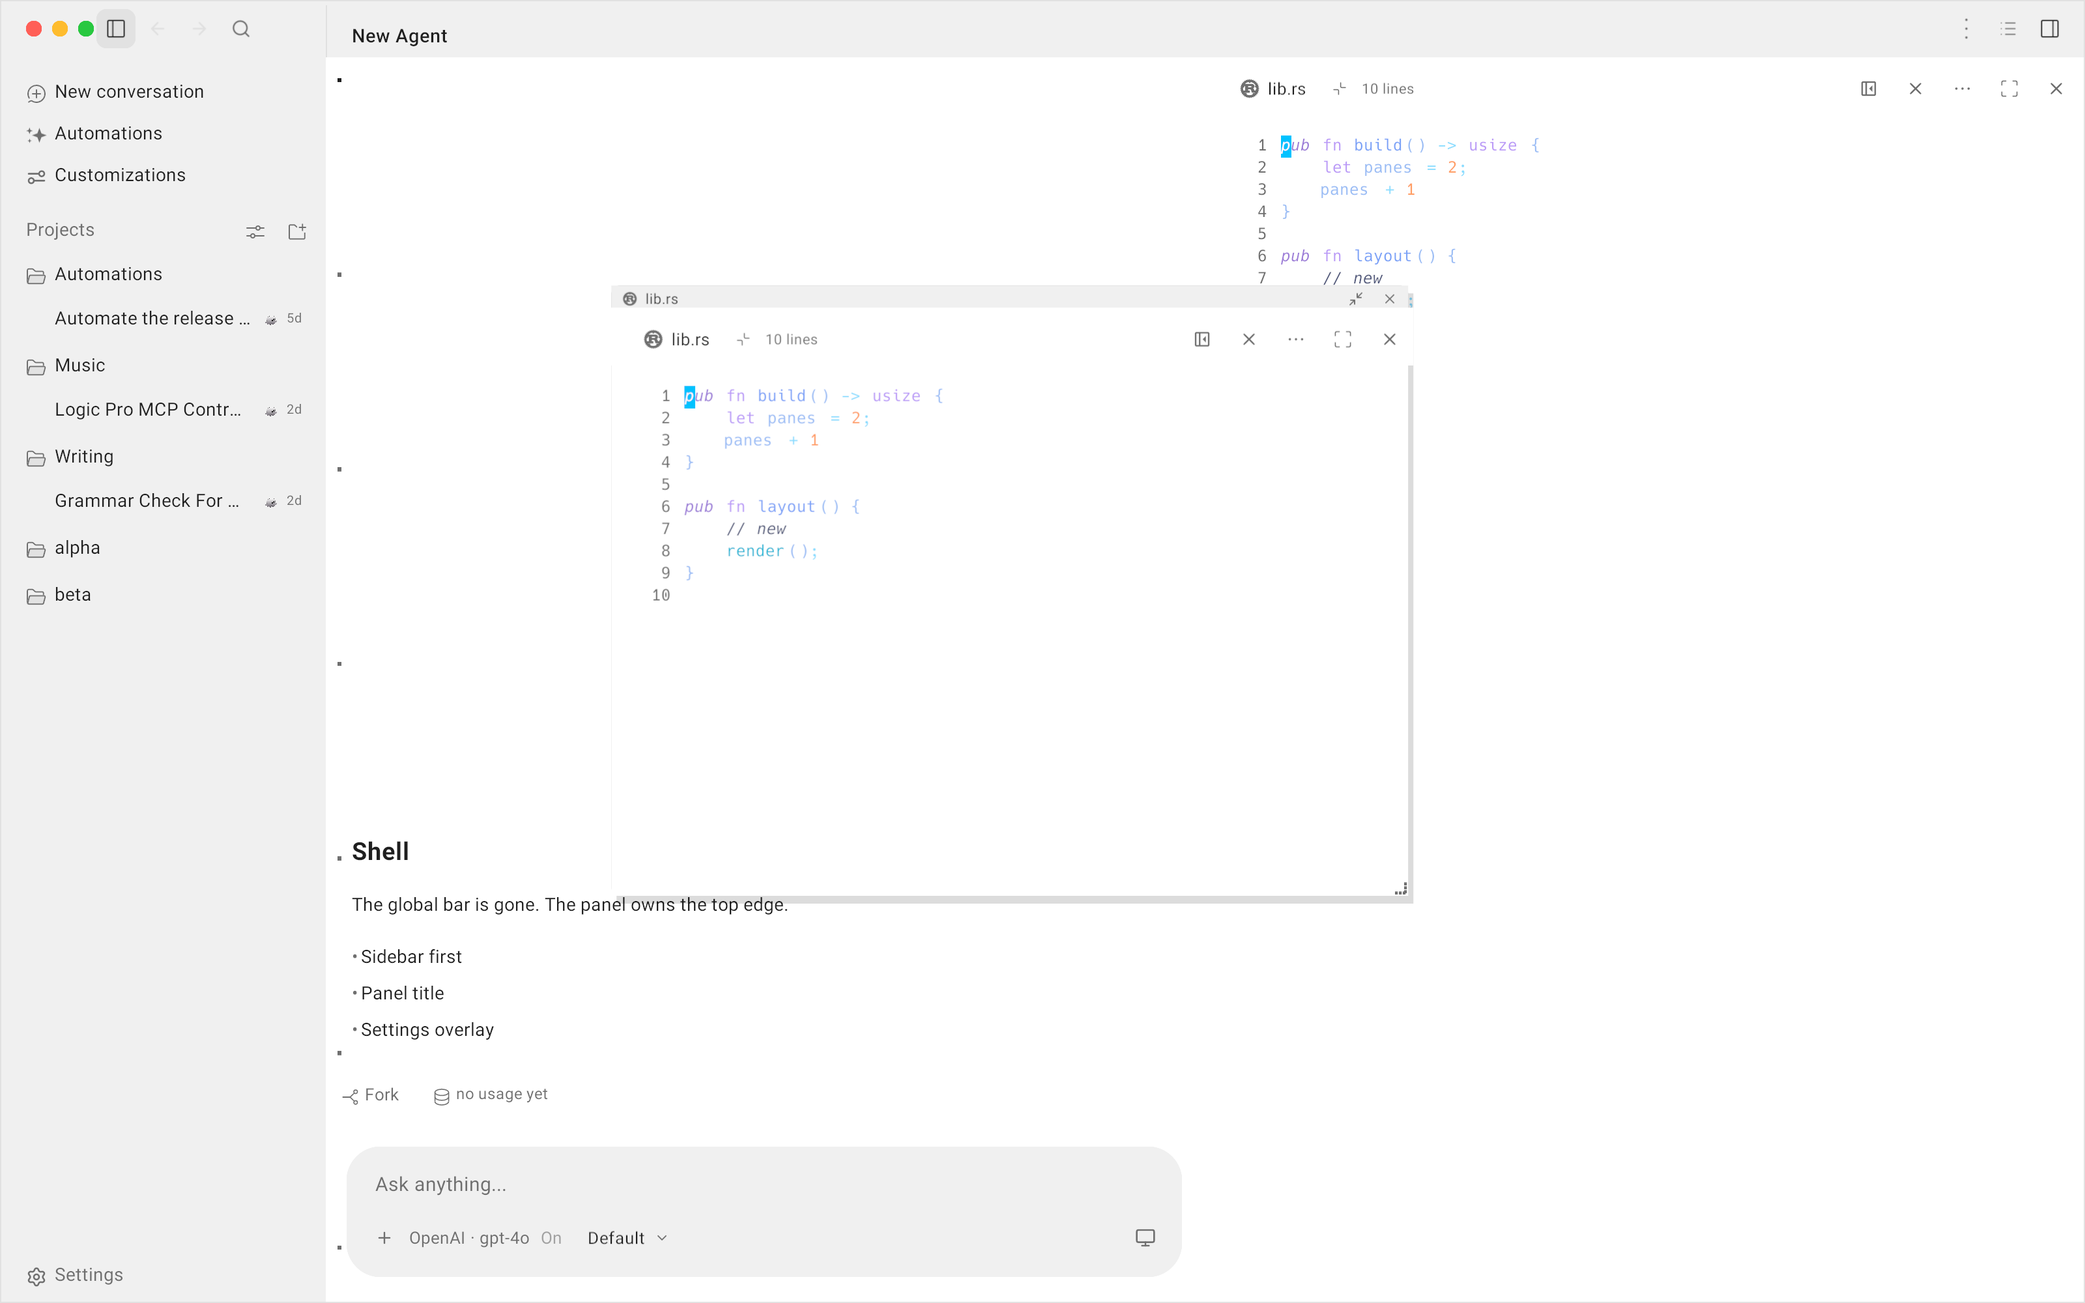
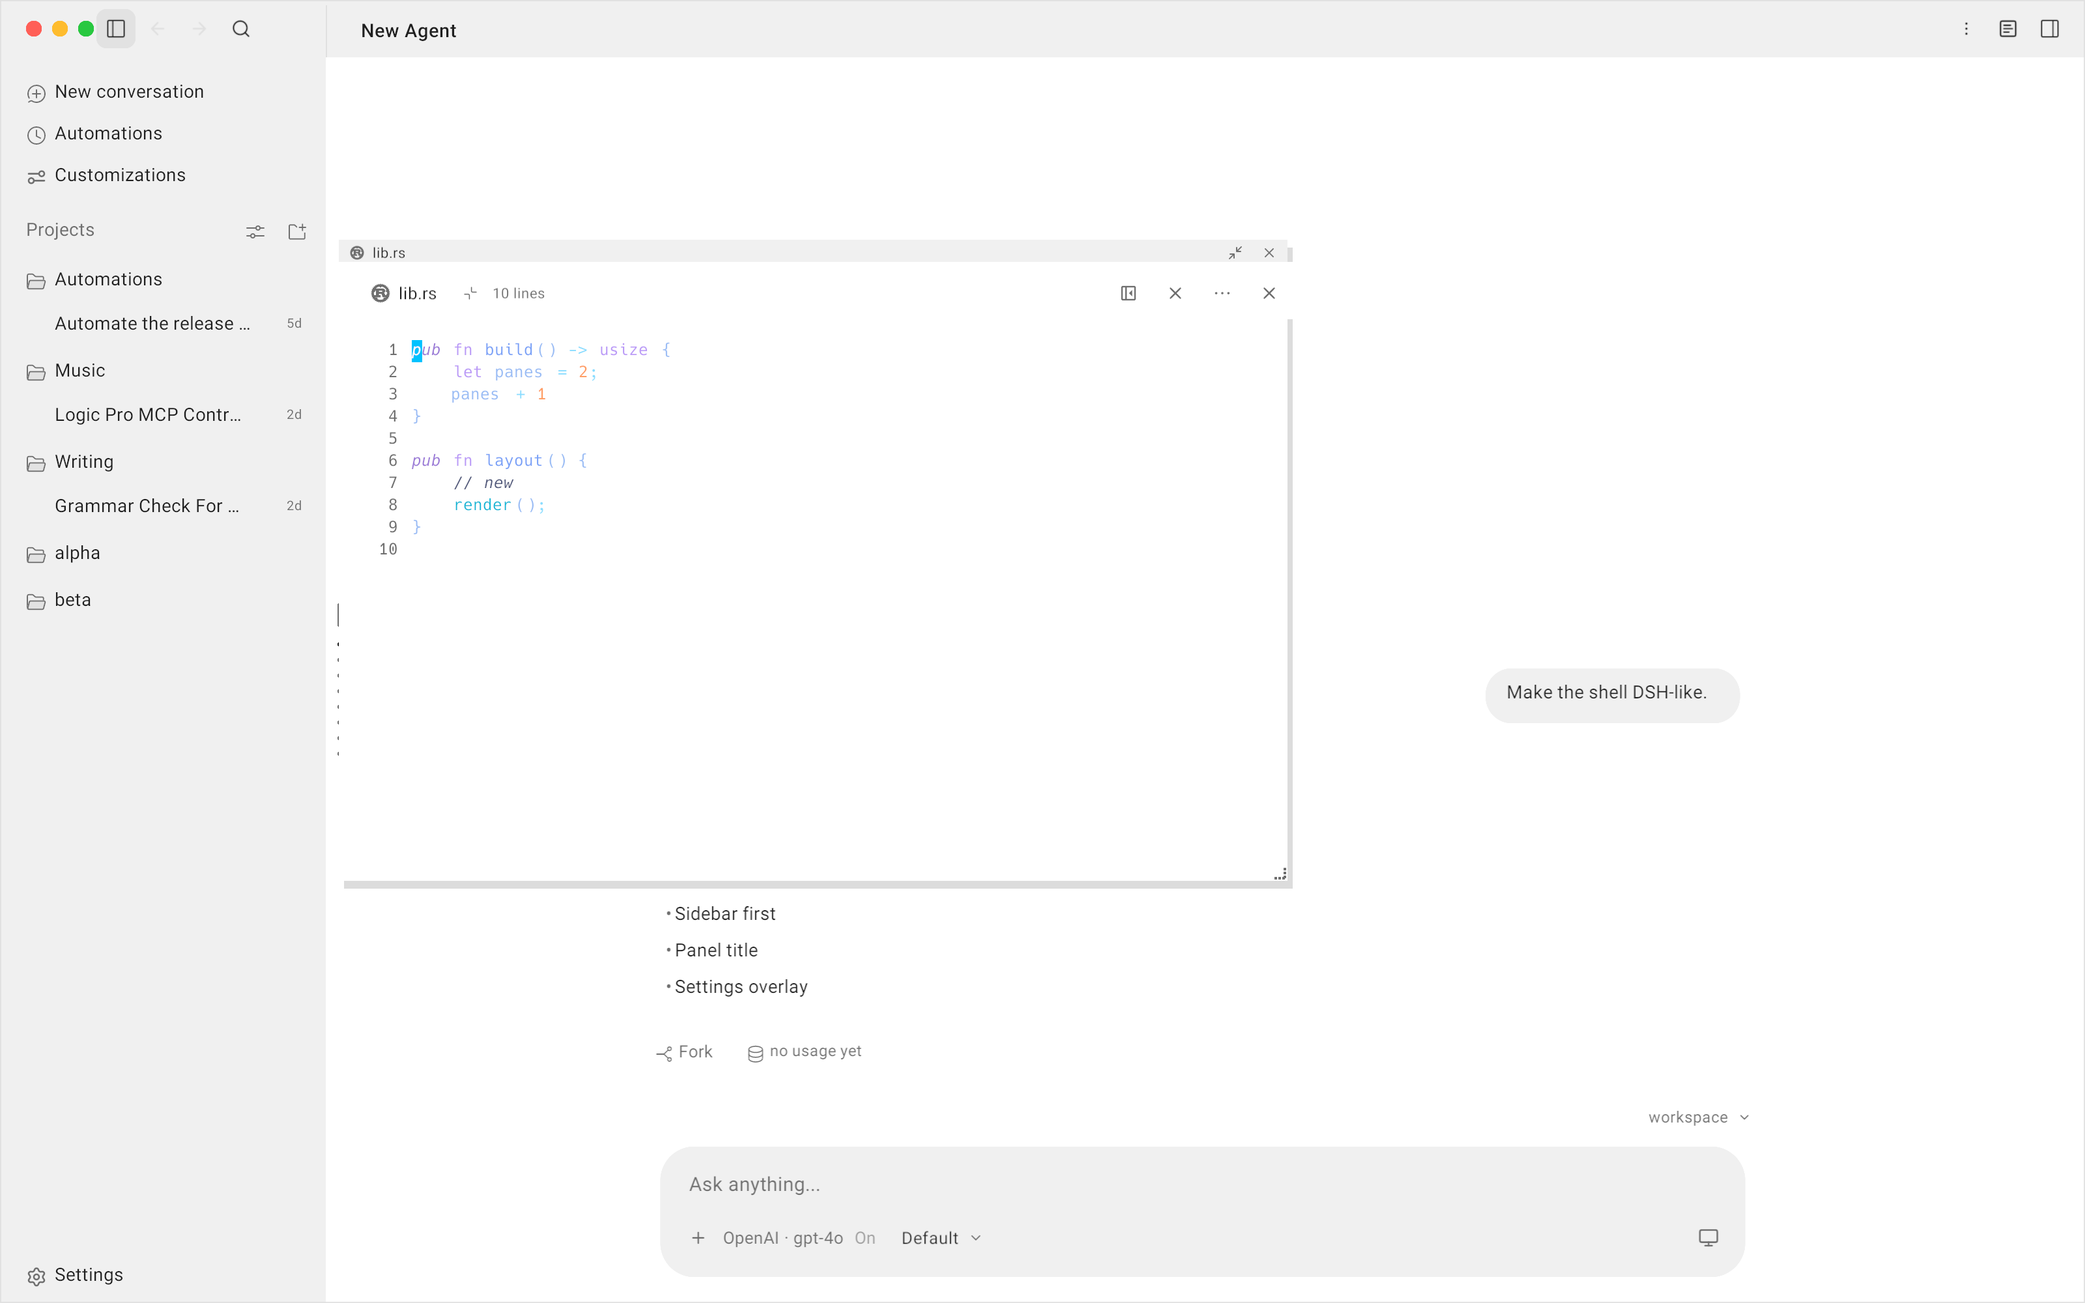
fix(panes): floating file is window-level and never tiles a duplicate
381 — open-in-floating allocates a detached file window with its own kind; it
does not split the layout, so there is no second tiled copy beside the chat.

382/383 — the float layer now lives at application-window level, above the
sidebar and side panel and below settings/spotlight. It uses full-window
coordinates, so the header drag and bottom-right resize can move it anywhere in
the app window and clamp only to the window; RegionLayer keeps z-order/raise.

384 — the same open-in-floating action is unchanged for Explorer/Review/Files
and still adds no side-panel tab or tiled pane; the state test asserts it.

385 — Escape docks the topmost window; a detached file docks into the side
panel (available, not a duplicate), the tiled case keeps the old tree dock.

386 — previews over the sidebar, over side panel and over transcript, drag/
resize and no duplicate, dark+light.

Tests: goble-app 926 passed / 8 documented baseline failures / 0 ignored;
goble-ui 981 passed / 0 failed / 0 ignored.

diff --git a/apps/desktop/src/state/ui_state/reviewer.rs b/apps/desktop/src/state/ui_state/reviewer.rs
@@ -200,31 +200,15 @@ impl UiState {
             return true;
         }
 
-        let anchor = if space.root.contains_leaf(self.active_pane_id) {
-            self.active_pane_id
-        } else {
-            space.root.first_leaf_id()
-        };
+        // 381: a floating window is not a split. It gets its own pane id and
+        // kind, lives only in the space's float list, and never adds a tiled
+        // copy beside the chat.
         let kind = PaneKind::File {
             path: file_path.clone(),
         };
-        // One window above the layout, cascaded after any window already
-        // floating there. The entry is not a change of the space's layout.
         let float_index = space.floating.iter().filter(|pane| pane.overlay).count();
-        let new_id = {
-            let Some(space) = self.spaces.get_mut(index) else {
-                return false;
-            };
-            let Some(new_id) = space.split_with_kind(
-                anchor,
-                crate::ui::SplitDir::Horizontal,
-                &mut self.next_pane_id,
-                kind,
-            ) else {
-                return false;
-            };
-            new_id
-        };
+        let new_id = self.next_pane_id;
+        self.next_pane_id += 1;
         self.pane_open_files.insert(new_id, vec![file_path]);
         self.focus_pane(new_id);
         self.pane_hover
@@ -232,7 +216,7 @@ impl UiState {
             .or_insert_with(|| Rc::new(RefCell::new(false)));
         let rect = default_floating_rect(float_index);
         if let Some(space) = self.spaces.get_mut(index) {
-            space.add_floating_overlay(new_id, rect);
+            space.add_floating_window(new_id, rect, kind);
         }
         self.sync_active_view();
         if let Some(desktop) = desktop {
@@ -254,8 +238,26 @@ impl UiState {
         if space.layout == LayoutKind::Floating {
             return false;
         }
+        let detached_path = space
+            .floating
+            .iter()
+            .find(|pane| pane.pane_id == pane_id)
+            .filter(|_| !space.root.contains_leaf(pane_id))
+            .and_then(|pane| match pane.kind.as_ref() {
+                Some(PaneKind::File { path }) => Some(path.clone()),
+                _ => None,
+            });
         if !space.remove_floating(pane_id) {
             return false;
+        }
+        // 385: a detached window docks as a file in the side panel instead of
+        // vanishing; the tiled case keeps its old tree dock.
+        if let Some(path) = detached_path {
+            self.open_file_side(path);
+            if let Some(desktop) = desktop {
+                self.save_panes(desktop);
+            }
+            return true;
         }
         self.focus_pane(pane_id);
         self.sync_active_view();
@@ -346,9 +348,14 @@ mod tests {
         state.active_pane_id = 7;
         state.next_pane_id = 8;
 
+        let side_tabs_before = state.side_tabs.clone();
         assert!(
             state.open_file_in_floating(path.clone(), None),
             "the file pane opens"
+        );
+        assert_eq!(
+            state.side_tabs, side_tabs_before,
+            "384: floating from the Files/Review action adds no side-panel tab"
         );
         assert_eq!(
             state.spaces[0].layout,
@@ -363,8 +370,8 @@ mod tests {
         let overlay = state.spaces[0].floating[0].clone();
         assert!(overlay.overlay, "the entry is a single-window overlay");
         assert!(
-            state.spaces[0].root.contains_leaf(overlay.pane_id),
-            "the file pane also belongs to the tree, so docking leaves it docked"
+            !state.spaces[0].root.contains_leaf(overlay.pane_id),
+            "381: the floating file has no tiled copy in the tree"
         );
         let active = state.active_pane_id;
         assert_eq!(
@@ -398,16 +405,19 @@ mod tests {
             "the layout below the float is still there"
         );
 
-        // Docking removes the float and leaves the same pane in the BSP tree.
+        // 385: docking a detached window removes the float and leaves the file
+        // available in the side panel, not as a duplicate tile.
         assert!(
             state.dock_floating_pane(active, None),
             "the docked toggle removes the window"
         );
         assert!(state.spaces[0].floating.is_empty());
         assert_eq!(state.spaces[0].layout, LayoutKind::Bsp);
-        assert!(
-            state.spaces[0].root.contains_leaf(active),
-            "the file returns to the pane/layout"
+        assert_eq!(state.side_file.as_deref(), Some(path.as_str()));
+        assert_eq!(
+            state.spaces[0].root.leaf_count(),
+            1,
+            "the docked file does not duplicate the tiled pane"
         );
     }
 

diff --git a/apps/desktop/src/ui/pane.rs b/apps/desktop/src/ui/pane.rs
@@ -137,6 +137,10 @@ pub struct FloatingPane {
     /// floating layout's own window.
     #[serde(default)]
     pub overlay: bool,
+    /// The pane's kind when the window is detached from the tiled tree (a
+    /// floating-only file). `None` for a window that still has a tree leaf.
+    #[serde(default)]
+    pub kind: Option<PaneKind>,
 }
 
 impl FloatingPane {
@@ -146,7 +150,13 @@ impl FloatingPane {
             rect,
             minimized: false,
             overlay: false,
+            kind: None,
         }
+    }
+
+    pub fn with_kind(mut self, kind: PaneKind) -> Self {
+        self.kind = Some(kind);
+        self
     }
 
     /// A single window floated over whatever layout the space already draws.
@@ -156,6 +166,7 @@ impl FloatingPane {
             rect,
             minimized: false,
             overlay: true,
+            kind: None,
         }
     }
 }
@@ -939,6 +950,13 @@ impl Space {
             .push(FloatingPane::overlay(pane_id, rect.clamped()));
     }
 
+    /// 381: add a floating-only window with no leaf in the tiled tree.
+    pub fn add_floating_window(&mut self, pane_id: u64, rect: PaneRect, kind: PaneKind) {
+        self.floating.retain(|pane| pane.pane_id != pane_id);
+        self.floating
+            .push(FloatingPane::overlay(pane_id, rect.clamped()).with_kind(kind));
+    }
+
     /// Remove `pane_id`'s window from the float, leaving the pane where the
     /// space's own layout puts it (the docked toggle). Returns whether there
     /// was a float to remove.
@@ -1067,7 +1085,10 @@ impl Space {
                 return self
                     .floating
                     .iter()
-                    .filter(|pane| !pane.minimized && self.root.contains_leaf(pane.pane_id))
+                    .filter(|pane| {
+                        !pane.minimized
+                            && (self.root.contains_leaf(pane.pane_id) || pane.kind.is_some())
+                    })
                     .map(|pane| (pane.pane_id, pane.rect.to_rect()))
                     .collect();
             }
@@ -1083,7 +1104,10 @@ impl Space {
         regions.extend(
             self.floating
                 .iter()
-                .filter(|pane| !pane.minimized && self.root.contains_leaf(pane.pane_id))
+                .filter(|pane| {
+                    !pane.minimized
+                        && (self.root.contains_leaf(pane.pane_id) || pane.kind.is_some())
+                })
                 .map(|pane| (pane.pane_id, pane.rect.to_rect())),
         );
         regions
@@ -1091,7 +1115,12 @@ impl Space {
 
     /// The kind of the leaf `target` (see [`Pane::leaf_kind`]).
     pub fn leaf_kind(&self, target: u64) -> Option<&PaneKind> {
-        self.root.leaf_kind(target)
+        self.root.leaf_kind(target).or_else(|| {
+            self.floating
+                .iter()
+                .find(|pane| pane.pane_id == target)
+                .and_then(|pane| pane.kind.as_ref())
+        })
     }
 
     /// The first settings leaf in this space's tree (see [`Pane::settings_leaf`]).
@@ -1117,6 +1146,15 @@ impl Space {
 
     /// Close the leaf `target`, returning the id of the pane to focus next.
     pub fn close(&mut self, target: u64) -> Option<u64> {
+        // A detached floating-only window has no tree leaf to remove.
+        if self
+            .floating
+            .iter()
+            .any(|pane| pane.pane_id == target && pane.kind.is_some())
+        {
+            self.floating.retain(|pane| pane.pane_id != target);
+            return Some(self.root.first_leaf_id());
+        }
         let next = self.root.remove_leaf(target);
         if next.is_some() {
             self.floating.retain(|pane| pane.pane_id != target);

diff --git a/apps/desktop/src/ui/panes.rs b/apps/desktop/src/ui/panes.rs
@@ -110,18 +110,6 @@ pub fn build_active_space(
             PaneCard::new(column.finish(), app).finish()
         }
     };
-    // A window floated over the layout is a second layer above it, not a
-    // change to the layout: the tree below keeps its regions and sessions.
-    let content: Box<dyn Element> = match active_space {
-        Some(space) => match build_floating_overlay(app, state, actions, space) {
-            Some(overlay) => Stack::new()
-                .with_children(vec![content])
-                .with_overlay(overlay, Vector2F::zero())
-                .finish(),
-            None => content,
-        },
-        None => content,
-    };
     // The drop ghost is drawn with the pane area but after its panes, so it
     // covers the pane the pointer is over and stays under the bar's floating
     // drag card (the bar paints above the body).
@@ -231,7 +219,11 @@ fn build_space(
             let mut children = Vec::new();
             let mut placed = Vec::new();
             for pane in &space.floating {
-                let Some(kind) = leaf_kind_of(&space.root, pane.pane_id) else {
+                let Some(kind) = pane
+                    .kind
+                    .clone()
+                    .or_else(|| leaf_kind_of(&space.root, pane.pane_id))
+                else {
                     continue;
                 };
                 // A minimized window is accounted for even though it is not
@@ -324,7 +316,7 @@ fn build_space(
 /// the same one the floating layout uses for its own windows: moving,
 /// resizing, raising and focusing all go through it, and a press that misses
 /// the window falls through to the layout below.
-fn build_floating_overlay(
+pub(crate) fn build_floating_overlay(
     app: &AppContext,
     state: &UiSnapshot,
     actions: &UiActions,
@@ -335,7 +327,11 @@ fn build_floating_overlay(
     }
     let mut children = Vec::new();
     for pane in &space.floating {
-        let Some(kind) = leaf_kind_of(&space.root, pane.pane_id) else {
+        let Some(kind) = pane
+            .kind
+            .clone()
+            .or_else(|| leaf_kind_of(&space.root, pane.pane_id))
+        else {
             continue;
         };
         if pane.minimized {

diff --git a/apps/desktop/examples/shell_settings_preview.rs b/apps/desktop/examples/shell_settings_preview.rs
@@ -460,6 +460,18 @@ fn main() -> anyhow::Result<()> {
                 SettingsCategory::General,
             ),
             (
+                "floating-file-left",
+                vec2f(1600.0, 1000.0),
+                false,
+                SettingsCategory::General,
+            ),
+            (
+                "floating-file-right",
+                vec2f(1600.0, 1000.0),
+                false,
+                SettingsCategory::General,
+            ),
+            (
                 "floating-file-small",
                 vec2f(1600.0, 1000.0),
                 false,
@@ -530,6 +542,11 @@ fn main() -> anyhow::Result<()> {
                         }
                     }
                 }
+                if name == "floating-file-right" {
+                    s.right_sidebar_open = true;
+                    s.side_tabs = vec![goble_app::state::SideTabKind::Overview];
+                    s.active_side_tab = 0;
+                }
                 if name.starts_with("floating-file") {
                     let file = repo_path.join("src/lib.rs");
                     let file = file.to_string_lossy().to_string();
@@ -537,6 +554,10 @@ fn main() -> anyhow::Result<()> {
                         let id = s.active_pane_id;
                         let rect = if name == "floating-file-small" {
                             goble_app::ui::PaneRect::new(0.18, 0.22, 0.34, 0.38)
+                        } else if name == "floating-file-left" {
+                            goble_app::ui::PaneRect::new(0.01, 0.14, 0.34, 0.58)
+                        } else if name == "floating-file-right" {
+                            goble_app::ui::PaneRect::new(0.63, 0.14, 0.34, 0.58)
                         } else {
                             goble_app::ui::PaneRect::new(0.16, 0.18, 0.46, 0.50)
                         };

diff --git a/apps/desktop/src/ui/build.rs b/apps/desktop/src/ui/build.rs
@@ -616,8 +616,18 @@ pub fn build_ui(context: &BuildContext<'_>) -> Box<dyn Element> {
     // Closing a file pane with unsaved edits asks here, above the workspace.
     let close_prompt_dialog = super::file_view::build_close_prompt(app, state, actions);
 
-    let mut stack = Stack::new().with_children(vec![
-        ModalHoverGate::new(shell_col.finish(), state.settings_overlay_open).finish(),
+    // 382: floating windows are application-window level: above the sidebar
+    // and side panel, below the settings/spotlight layers.
+    let floating_overlay = state
+        .spaces
+        .get(state.active_space)
+        .and_then(|space| panes::build_floating_overlay(app, state, actions, space));
+    let mut children =
+        vec![ModalHoverGate::new(shell_col.finish(), state.settings_overlay_open).finish()];
+    if let Some(floating) = floating_overlay {
+        children.push(floating);
+    }
+    children.extend(vec![
         // The toolbar paints after the body so the popups/trays anchored in it
         // (the "+ ▾" environment menu) sit above the sidebar and the pane
         // surface, and it is dispatched first within the shell for the same
@@ -656,6 +666,7 @@ pub fn build_ui(context: &BuildContext<'_>) -> Box<dyn Element> {
         ))
         .finish(),
     ]);
+    let mut stack = Stack::new().with_children(children);
 
     // 349: the Automations popover is anchored beside the sidebar row and
     // floats above the workspace, below the settings/spotlight top layers.

diff --git a/apps/desktop/src/root_view/rebuild.rs b/apps/desktop/src/root_view/rebuild.rs
@@ -354,6 +354,15 @@ impl RootView {
                 let mut leaves = Vec::new();
                 if let Some(space) = s.spaces.get(s.active_space) {
                     space.root.file_leaves(&mut leaves);
+                    // 381: detached floating file windows are not tree leaves;
+                    // read them in the same pass so their content is real.
+                    for pane in &space.floating {
+                        if let Some(crate::state::PaneKind::File { path }) = pane.kind.as_ref() {
+                            if !space.root.contains_leaf(pane.pane_id) {
+                                leaves.push((pane.pane_id, path.clone()));
+                            }
+                        }
+                    }
                 }
                 let mut open = Vec::new();
                 let mut active = HashMap::new();

diff --git a/apps/desktop/src/state/ui_state/inbox.rs b/apps/desktop/src/state/ui_state/inbox.rs
@@ -308,9 +308,10 @@ impl UiState {
 
     /// The space holding `pane_id`, if any.
     pub fn space_index_of_pane(&self, pane_id: u64) -> Option<usize> {
-        self.spaces
-            .iter()
-            .position(|space| space.root.contains_leaf(pane_id))
+        self.spaces.iter().position(|space| {
+            space.root.contains_leaf(pane_id)
+                || space.floating.iter().any(|pane| pane.pane_id == pane_id)
+        })
     }
 
     /// Keep the selection inside the list after items leave it.

diff --git a/docs/design/README.md b/docs/design/README.md
@@ -188,7 +188,7 @@ scroll rail hover, the terminal rail with prev/next and per-window close, the
 square+hue colour control, the composer's model and permission trays, Settings
 (with an open select above later rows, integrations, General, Appearance with its in-field swatch,
 Appearance with the colour palette open, Shortcuts, narrow; no descriptions,
-floating close x), the diff reviewer, the floating file window and the
+floating close x), the diff reviewer, the floating file window (also over the sidebar and side panel, with no tiled duplicate) and the
 changed-files card. Next to them: the DSH-style right-aligned user bubble and
 inline image message (`chat-parity-*`), the slash menu floating above an
 unchanged composer (`slash-menu-*`), the Review tab beside the main chat
